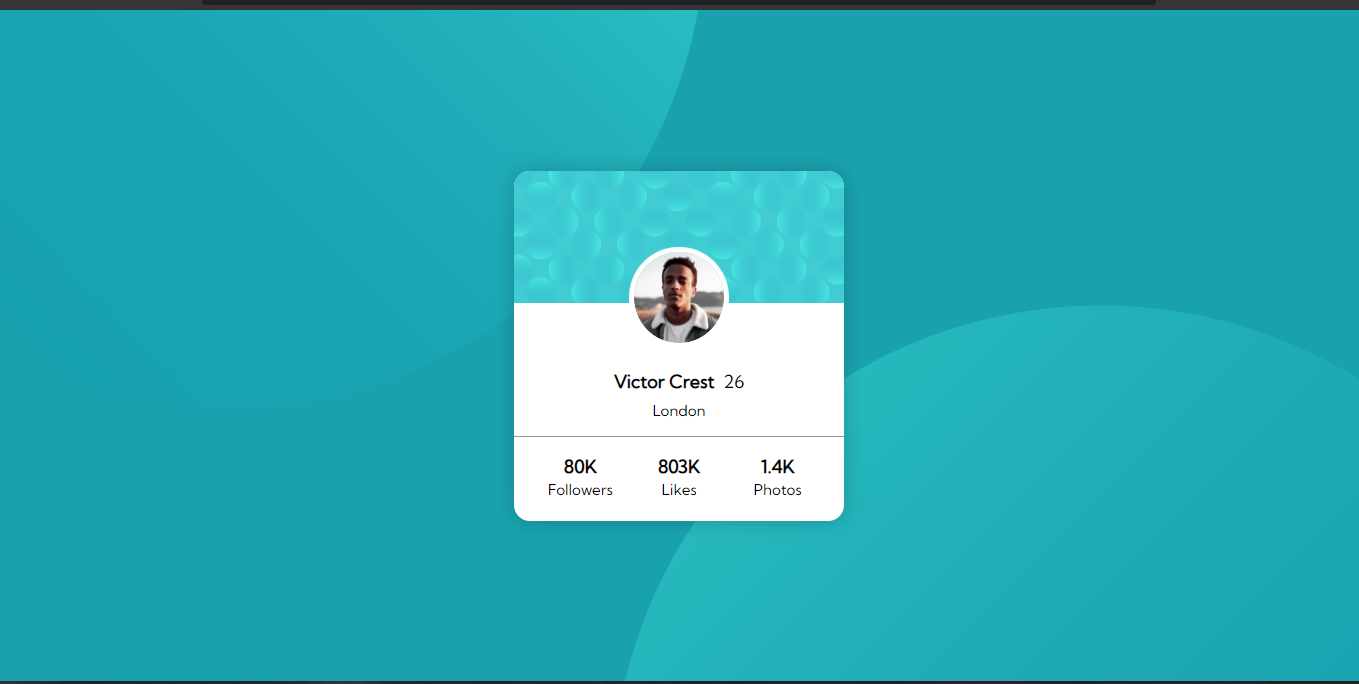
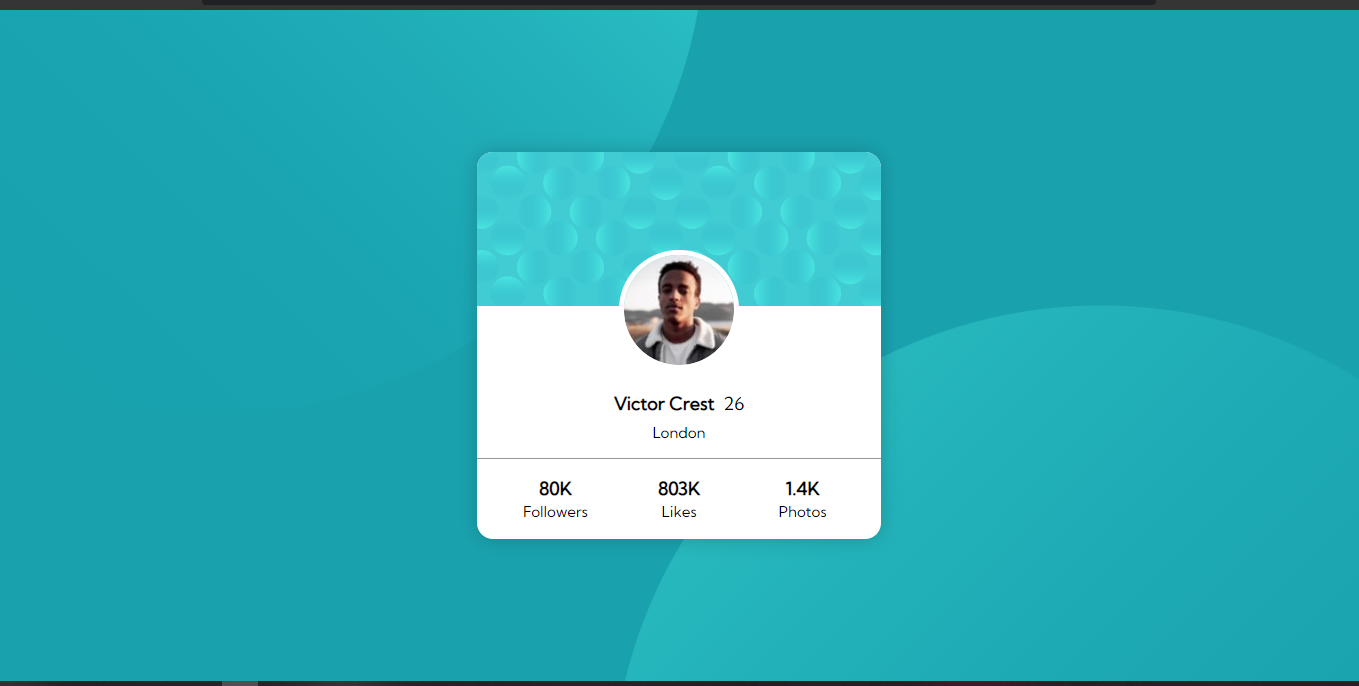
updated

Changed region(s): [[0.34, 0.2149, 0.649, 0.7982], [0.0, 0.9825, 1.0, 1.0]]

diff --git a/index.html b/index.html
@@ -1,61 +1,55 @@
 <!DOCTYPE html>
 <html lang="en">
-    <head>
-        <meta charset="UTF-8" />
-        <meta http-equiv="X-UA-Compatible" content="IE=edge" />
-        <meta name="viewport" content="width=device-width, initial-scale=1.0" />
-        <title>Frontend Mentor | Profile Card Component</title>
 
-        <!--tab icon-->
-        <link rel="icon" type="image/png" href="img/favicon-32x32.png" />
+<head>
+    <meta charset="UTF-8">
+    <meta http-equiv="X-UA-Compatible" content="IE=edge">
+    <meta name="viewport" content="width=device-width, initial-scale=1.0">
+    <title>Frontend Mentor | Profile Card Component</title>
 
-        <!--css-->
-        <link rel="stylesheet" href="css/main.css" />
+    <!--tab icon-->
+    <link rel="icon" type="image/png" href="img/favicon-32x32.png">
 
-        <!--font-->
-        <link
-            rel="stylesheet"
-            href="https://fonts.googleapis.com/css?family=Kumbh+Sans" />
-    </head>
-    <body>
-        <main>
-            <section>
-                <img
-                    class="profile-bg-image"
-                    src="img/bg-pattern-card.svg"
-                    alt=""
-                    aria-hidden="true" />
+    <!--css-->
+    <link rel="stylesheet" href="css/main.css">
 
-                <img
-                    class="profile-picture"
-                    src="img/image-victor.jpg"
-                    alt=""
-                    aria-hidden="true" />
+    <!--font-->
+    <link rel="stylesheet" href="https://fonts.googleapis.com/css?family=Kumbh+Sans">
+</head>
 
-                <h1 class="profile-name" title="Name, Surname and Age">
-                    Victor Crest
-                    <span class="profile-age">&nbsp;26</span>
-                </h1>
+<body>
+    <main>
+        <section>
+            <img class="profile-bg-image" src="img/bg-pattern-card.svg" alt="" aria-hidden="true">
 
-                <p class="profile-location" title="Victor Crest's Location">
-                    London
-                </p>
-                <span class="line"></span>
+            <img class="profile-picture" src="img/image-victor.jpg" alt="" aria-hidden="true">
 
-                <table class="socials">
-                    <tr>
-                        <th class="stat-item">80K</th>
-                        <th class="stat-item">803K</th>
-                        <th class="stat-item">1.4K</th>
-                    </tr>
+            <h1 class="profile-name">
+                Victor Crest
+                <span class="profile-age">&nbsp;26</span>
+            </h1>
 
-                    <tr>
-                        <td class="title-item">Followers</td>
-                        <td class="title-item">Likes</td>
-                        <td class="title-item">Photos</td>
-                    </tr>
-                </table>
-            </section>
-        </main>
-    </body>
+            <p class="profile-location">
+                London
+            </p>
+
+            <span class="line"></span>
+
+            <table class="socials">
+                <tr>
+                    <th class="stat-item">80K</th>
+                    <th class="stat-item">803K</th>
+                    <th class="stat-item">1.4K</th>
+                </tr>
+
+                <tr>
+                    <td class="title-item">Followers</td>
+                    <td class="title-item">Likes</td>
+                    <td class="title-item">Photos</td>
+                </tr>
+            </table>
+        </section>
+    </main>
+</body>
+
 </html>

diff --git a/css/main.css b/css/main.css
@@ -43,7 +43,6 @@
 }
 
 body {
-    width: 100vw;
     height: 100vh;
     background-color: var(--primary-dark-cyan);
     background-image: url(../img/bg-pattern-top.svg),
@@ -52,14 +51,17 @@ body {
     background-position: right 48vw bottom 40vh, left 45vw top 44vh;
     font-family: var(--font-family);
     font-size: 0.9375rem;
+}
+
+body,
+main{
     display: flex;
     align-items: center;
     justify-content: center;
 }
 
 section {
-    width: 20.625rem;
-    height: 21.875rem;
+    max-width: 90%;
     overflow: hidden;
     background: white;
     border-radius: 1rem;
@@ -80,6 +82,7 @@ section {
 }
 
 .profile-bg-image {
+    width: 100%;
     margin-top: -0.5rem;
 }
 

diff --git a/README-template.md b/README-template.md
@@ -27,10 +27,11 @@ This is a solution to the [Profile card component challenge on Frontend Mentor](
 
 -   tablet
     ![tablet ipad air](screenshots/tablet-ipad-air.PNG)
-    ![tablet ipad air](screenshots/tablet-nest-hub.PNG.PNG)
+    ![tablet nest hub](screenshots/tablet-nest-hub.PNG)
 
 -   mobile
-    ![mobile](screenshots/mobile-iphone-se.PNG.PNG)
+    ![mobile iphone se](screenshots/mobile-iphone-se.PNG.PNG)
+    ![mobile samsung galaxy fold](screenshots/mobile-galaxy-fold.PNG)
 
 ### Links
 
